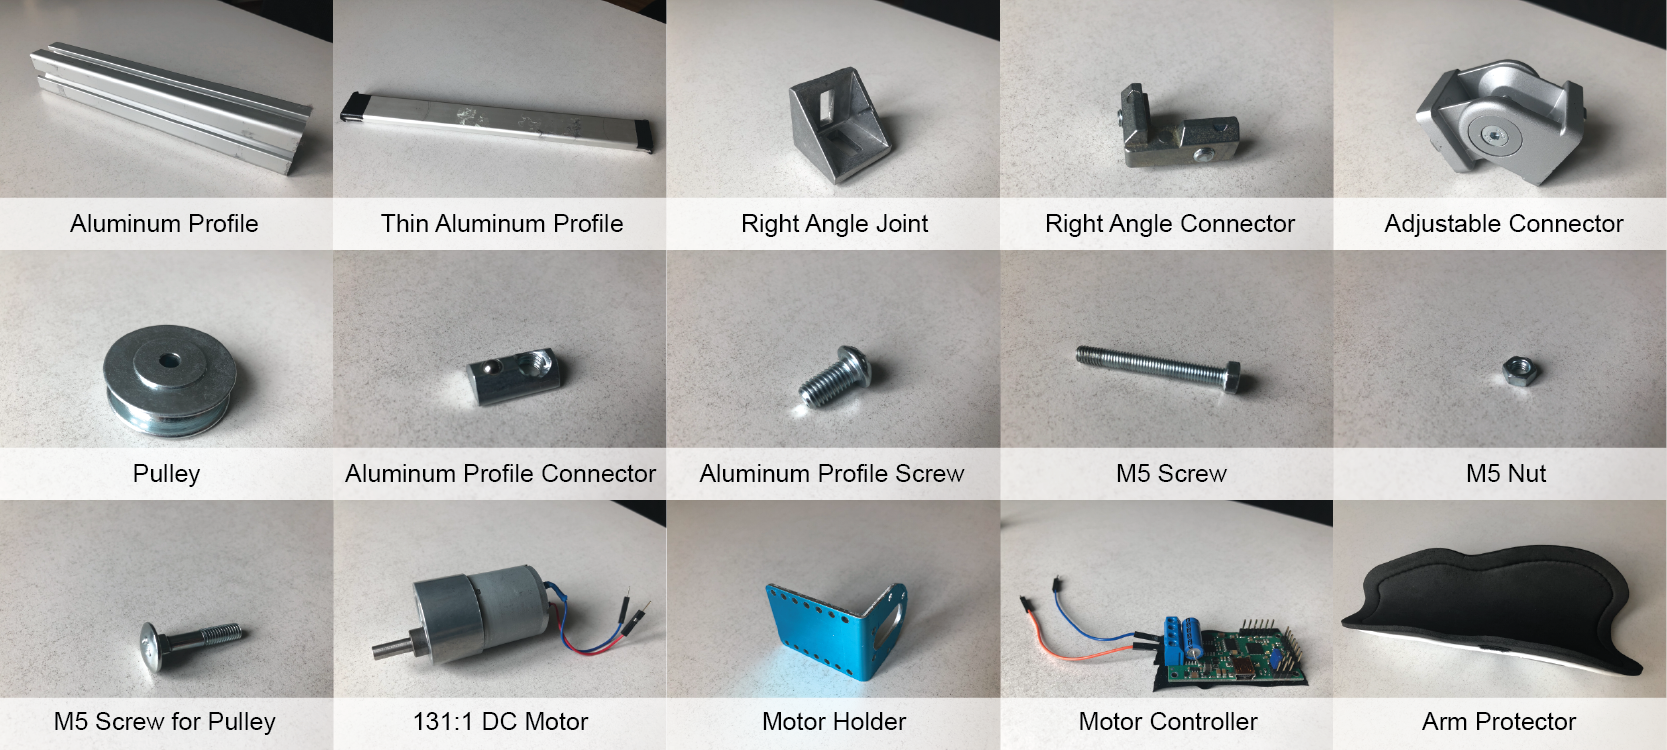
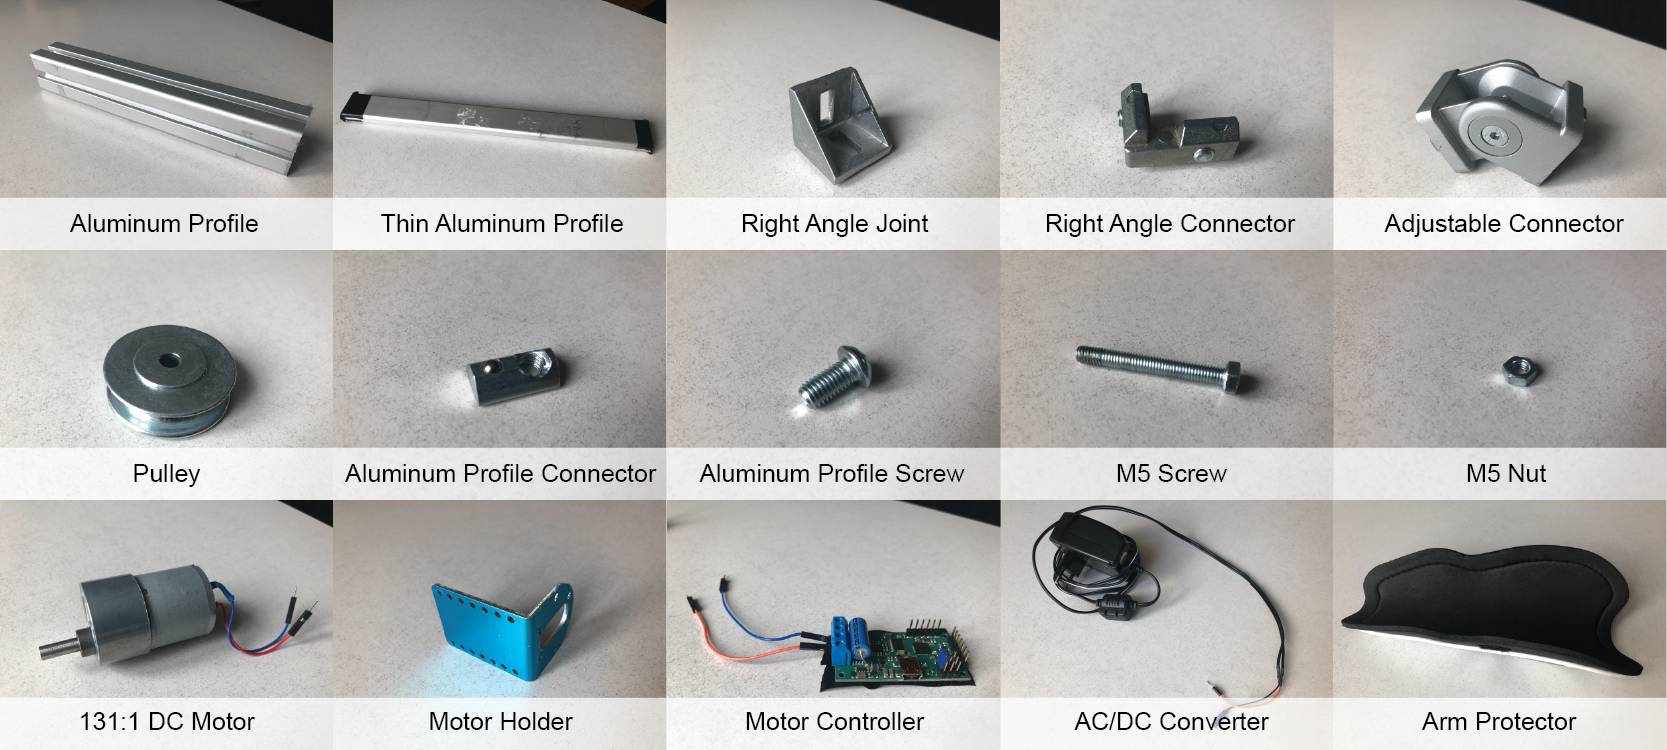
updated parts picture

Changed region(s): [[0.0, 0.644, 0.811, 0.9813], [0.7487, 0.644, 0.811, 0.7053]]

diff --git a/README.md b/README.md
@@ -25,7 +25,7 @@ Here are the individual components that you will need:
 * 1x Motor holder
 * 1x Motor head mount
 * 1x DC motor controller: Pololu Simple High-Power Motor Controller 18v25 
-* 1x Hacked 12V AC->DC converter for the motor
+* 1x Hacked 12V AC/DC converter for the motor
 * 8x Neudimum magnet
 * 1x Arm protector
 * Force sensor, we used OptoForce 10N
